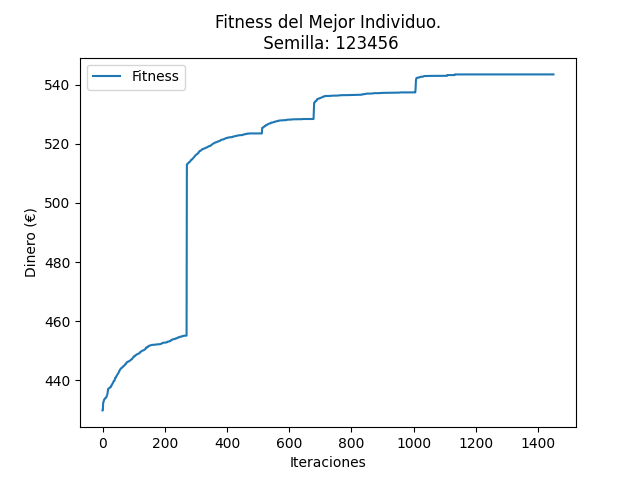
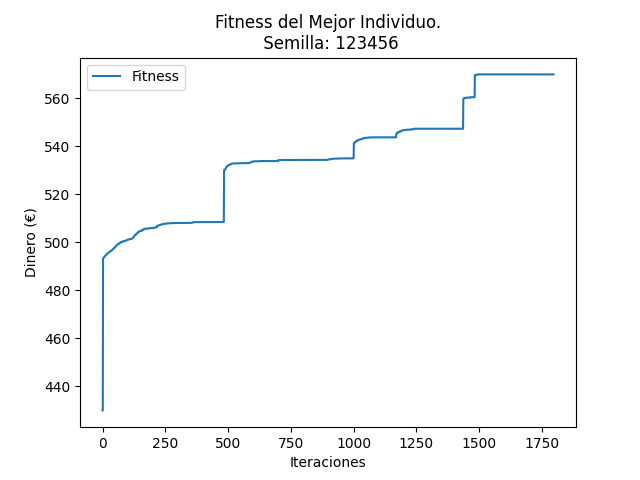
auto-commit:10/05/2023 a las 15:49:27,96

diff --git a/2º Cuatrimestre/[MByHB] Modelos Bioinspirados y Heurísticas de Búsquedas/Prácticas/Practica3_AlgoritmosGeneticos/Código/Multimodal/Algoritmo_Genetico_Multimodal.py b/2º Cuatrimestre/[MByHB] Modelos Bioinspirados y Heurísticas de Búsquedas/Prácticas/Practica3_AlgoritmosGeneticos/Código/Multimodal/Algoritmo_Genetico_Multimodal.py
@@ -46,7 +46,7 @@ def torneo(valores_cromosomas, k):
     # print(k)
     # print(len(valores_cromosomas))
     indices = np.random.choice(a=np.array([i for i in range(len(valores_cromosomas))]),
-                               size=k, replace=False,
+                               size=k, replace=True,
                                p=probabilidades)
     return list(indices)
 
@@ -164,8 +164,6 @@ def algoritmo_genetico_generacional_multimodal_exp(semilla, pob, mut, generacion
         if mejor_valor < valores_poblacion[indice_maximo]:
             mejor_individuo = poblacion[indice_maximo].copy()
             mejor_valor = valores_poblacion[indice_maximo].copy()
-            historicoMejor.append(mejor_valor)
-            historicoPeor.append(peor_valor)
             t = 0   # Cuando mejora, reiniciamos el contador de iteraciones.
 
         mejorValorAcumulado.append(mejor_valor)
@@ -235,7 +233,7 @@ def algoritmo_genetico_generacional_multimodal(semilla, isRandom):
         hijos = np.zeros(shape=(Utils.POB_INICIAL_MULTIMODAL, 24), dtype=int)
         # Añado la élite a la siguiente generación:
         hijos[0:Utils.ELITE, :] = elite
-        for i in range(Utils.ELITE, Utils.POB_INICIAL_MULTIMODAL-2, 2):
+        for i in range(Utils.ELITE, Utils.POB_INICIAL_MULTIMODAL , 2):
             if np.random.uniform() < 0.8: # Probabilidad de cruce del 80%
                 h1, h2 = cruce(poblacion[padres[i-Utils.ELITE][0].copy()],
                                poblacion[padres[Utils.ELITE][1].copy()])
@@ -245,11 +243,11 @@ def algoritmo_genetico_generacional_multimodal(semilla, isRandom):
             hijos[i] = h1
             hijos[i + 1] = h2
 
-        hijos[Utils.POB_INICIAL_MULTIMODAL-2] = np.random.randint(-100, 100, 24, dtype=int)
-        hijos[Utils.POB_INICIAL_MULTIMODAL-1] = np.random.randint(-100, 100, 24, dtype=int)
+        # hijos[Utils.POB_INICIAL_MULTIMODAL-2] = np.random.randint(-100, 100, 24, dtype=int)
+        # hijos[Utils.POB_INICIAL_MULTIMODAL-1] = np.random.randint(-100, 100, 24, dtype=int)
         # Mutar P(t)
         hijos_mutados = np.apply_along_axis(mutacion, 1, hijos.copy(), Utils.MUTACION_MULTIMODAL)
-        poblacion = hijos_mutados
+        poblacion = hijos_mutados.copy()
         # print(f"{poblacion}")
         # Evaluar P(t)
         valores_poblacion, dinero_acumulado, bateria_acumulada = Utils.fitnessPoblacion(poblacion, isRandom)
@@ -260,22 +258,23 @@ def algoritmo_genetico_generacional_multimodal(semilla, isRandom):
         # Obtenemos el mejor individuo de la población.
         if mejor_valor < valores_poblacion[indice_maximo]:
             mejor_individuo = poblacion[indice_maximo].copy()
-            mejor_valor = valores_poblacion[indice_maximo].copy()
-            historicoMejor.append(mejor_valor)
-            historicoPeor.append(peor_valor)
             t = 0   # Cuando mejora, reiniciamos el contador de iteraciones.
 
         mejorValorAcumulado.append(mejor_valor)
 
-        if peor_valor < valores_poblacion[indice_minimo]:
+        # if peor_valor < valores_poblacion[indice_minimo]:
             # Obtenemos el peor individuo de la poblacion
-            peor_valor = valores_poblacion[indice_minimo].copy()
 
+        valores_poblacion, _ , _ = Utils.fitnessPoblacion(poblacion, isRandom)
+
+        peor_valor = valores_poblacion[indice_minimo].copy()
+        mejor_valor = valores_poblacion[indice_maximo].copy()
         P += 1 # Aumentamos una generación
 
+        historicoMejor.append(mejor_valor.copy())
+        historicoPeor.append(peor_valor.copy())
     # Clearing final con kappa = 1
-    print(clearing(poblacion, Utils.RADIO_CLEARING, 1, isRandom))
-
+    print(f"Numero Nichos Final: {len(clearing(poblacion, Utils.RADIO_CLEARING, 1, isRandom))}")
     return mejor_valor, (historicoMejor, historicoPeor), mejorValorAcumulado, mejor_individuo, numero_evaluaciones
 
 def experimentar():
@@ -330,5 +329,5 @@ if __name__ == "__main__":
     # print("\n")
     # print("BEST PARAMETERS:\n ")
     # print(pd.DataFrame(data))
-    # Utils.grafica(algoritmo_genetico_generacional_multimodal, israndom=False)
-    print(algoritmo_genetico_generacional_multimodal(12456, False)[0])
+    Utils.grafica(algoritmo_genetico_generacional_multimodal, israndom=False)
+    # print(algoritmo_genetico_generacional_multimodal(12456, False)[0])

diff --git a/2º Cuatrimestre/[MByHB] Modelos Bioinspirados y Heurísticas de Búsquedas/Prácticas/Practica3_AlgoritmosGeneticos/Código/CHC/Algoritmo_Genetico_CHC.py b/2º Cuatrimestre/[MByHB] Modelos Bioinspirados y Heurísticas de Búsquedas/Prácticas/Practica3_AlgoritmosGeneticos/Código/CHC/Algoritmo_Genetico_CHC.py
@@ -221,7 +221,7 @@ def CHC(semilla, israndom):
     t = 0
     d = 24 / 4
     # Inicializar Poblacion
-    poblacion = Utils.inicializar_poblacion(Utils.POBLACION_INICIAL - 1)
+    poblacion = Utils.inicializar_poblacion(Utils.POBLACION_CHC)
     # Evaluar Poblacion
     valores_poblacion, dinero_acumulado, bateria_acumulada = Utils.fitnessPoblacion(poblacion, israndom)
     indice_maximo = np.argmax(valores_poblacion)
@@ -262,25 +262,18 @@ def CHC(semilla, israndom):
 
         # Evaluar Poblacion
         # valores_poblacion, _, _ = Utils.fitnessPoblacion(hijos, israndom)
-
         # Seleccionar
         poblacion = select_s(parejas, hijos, israndom)
         valores_poblacion, _, _ = Utils.fitnessPoblacion(poblacion, israndom)
         numero_evaluaciones += len(poblacion)
-        indice_maximo = np.argmax(valores_poblacion)
-        indice_minimo = np.argmin(valores_poblacion)
 
         if valores_poblacion[indice_maximo] > mejor_valor:  # Actualizamos el mejor valor de toda la historia
+            t = 0
             mejor_individuo = poblacion[indice_maximo].copy()
             mejor_valor = valores_poblacion[indice_maximo].copy()
-            historicoPeor.append(peor_valor)
-            # print(f"Maximo valor: {mejor_valor}")
-            # print(f"Minimo valor: {peor_valor}")
-            t = 0
-            historicoMejor.append(mejor_valor)
             # print("Mejora")
-        mejorValorAcumulado.append(mejor_valor)
 
+        mejorValorAcumulado.append(mejor_valor)
         # Obtenemos el mejor individuo de la generación
         mejorIndividuoGenAnterior = poblacion[indice_maximo].copy()
 
@@ -293,16 +286,27 @@ def CHC(semilla, israndom):
         if np.array_equal(poblacion, hijos):
             d -= 1
 
+
+
         # Si d < 0 -> diverge P(t) y d = 24/4
         if d < 0:
             #diverge(poblacion, hijos)
             # En el arranque los valores de un cromosoma corresponden al mejor individuo de la generación anterior y el resto serán
             # aleatorios
             d = 24/4
-            poblacion = Utils.inicializar_poblacion(Utils.POBLACION_INICIAL - 1)
+            poblacion = Utils.inicializar_poblacion(Utils.POBLACION_CHC)
             poblacion[0] = mejorIndividuoGenAnterior.copy()
             # print(poblacion)
             numero_reinicios += 1
+
+        valores_poblacion = Utils.fitnessPoblacion(poblacion, israndom)[0]
+        indice_maximo = np.argmax(valores_poblacion)
+        indice_minimo = np.argmin(valores_poblacion)
+        mejor_individuo = poblacion[indice_maximo].copy()
+        mejor_valor = valores_poblacion[indice_maximo].copy()
+        peor_valor = valores_poblacion[indice_minimo].copy()
+        historicoPeor.append(peor_valor.copy())
+        historicoMejor.append(mejor_valor.copy()) # Grafica
     print(f"Reinicios: {numero_reinicios}")
 
     return mejor_valor, (historicoMejor, historicoPeor), mejorValorAcumulado, mejor_individuo, numero_evaluaciones

diff --git a/2º Cuatrimestre/[MByHB] Modelos Bioinspirados y Heurísticas de Búsquedas/Prácticas/Practica3_AlgoritmosGeneticos/Código/Basico/Algoritmo_Genetico_Basico.py b/2º Cuatrimestre/[MByHB] Modelos Bioinspirados y Heurísticas de Búsquedas/Prácticas/Practica3_AlgoritmosGeneticos/Código/Basico/Algoritmo_Genetico_Basico.py
@@ -90,6 +90,7 @@ def algoritmo_genetico_generacional_exp(semilla, poblacion_inicial, numIteracion
         numero_evaluaciones += len(poblacion) # Evaluamos a toda la poblacion para escoger la élite.
 
         # Seleccionar los índices de los padres (K=3)
+        # 2 veces torneo
         candidatos = np.array([torneo(valores_poblacion, int(Utils.K * poblacion_inicial)) for _ in
                                range(poblacion_inicial)])
 

diff --git a/2º Cuatrimestre/[MByHB] Modelos Bioinspirados y Heurísticas de Búsquedas/Prácticas/Practica3_AlgoritmosGeneticos/Código/Utils.py b/2º Cuatrimestre/[MByHB] Modelos Bioinspirados y Heurísticas de Búsquedas/Prácticas/Practica3_AlgoritmosGeneticos/Código/Utils.py
@@ -19,7 +19,8 @@ NUMITER_EXP = [100, 200, 300, 500, 1000, 1500, 2000] # EXP
 ELITE = 5
 
 # CHC
-ALPHA = 0.05
+POBLACION_CHC = 16
+ALPHA = 0.0005
 ALPHA_EXP = [0.001, 0.01, 0.05, 0.075, 0.1, 0.2]
 NUM_ITERACIONES_CHC = 300
 ITERACIONESCHC_EXP = [100, 200, 300, 500, 1000, 1500, 2000]
